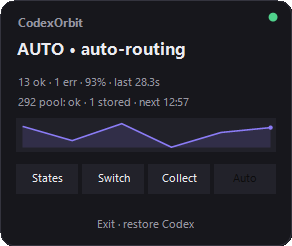
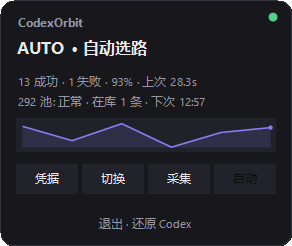
Fix doc screenshots: topmost capture, refresh console/status card shots

diff --git a/src/CodexOrbitApp.cs b/src/CodexOrbitApp.cs
@@ -1632,8 +1632,10 @@ static class Shot
         card.NoAutoHide = true;
         card.StartPosition = FormStartPosition.Manual;
         card.Location = new Point(60, 60);
+        card.TopMost = true; // guarantee nothing else covers the capture region
         card.RefreshData(StatusSnapshot.Demo());
         card.Show();
+        card.Activate();
         Application.DoEvents();
         Thread.Sleep(900); // let GDI+ finish
         var bmp = new Bitmap(card.Width, card.Height);
@@ -1660,7 +1662,9 @@ static class Shot
         f.NoFetch = true;
         f.StartPosition = FormStartPosition.Manual;
         f.Location = new Point(60, 60);
+        f.TopMost = true; // guarantee nothing else covers the capture region
         f.Show();
+        f.Activate();
         Application.DoEvents();
         f.ApplyData(StatusSnapshot.Demo(), StatusSnapshot.DemoNodesJson);
         Thread.Sleep(900); // let GDI+ settle
